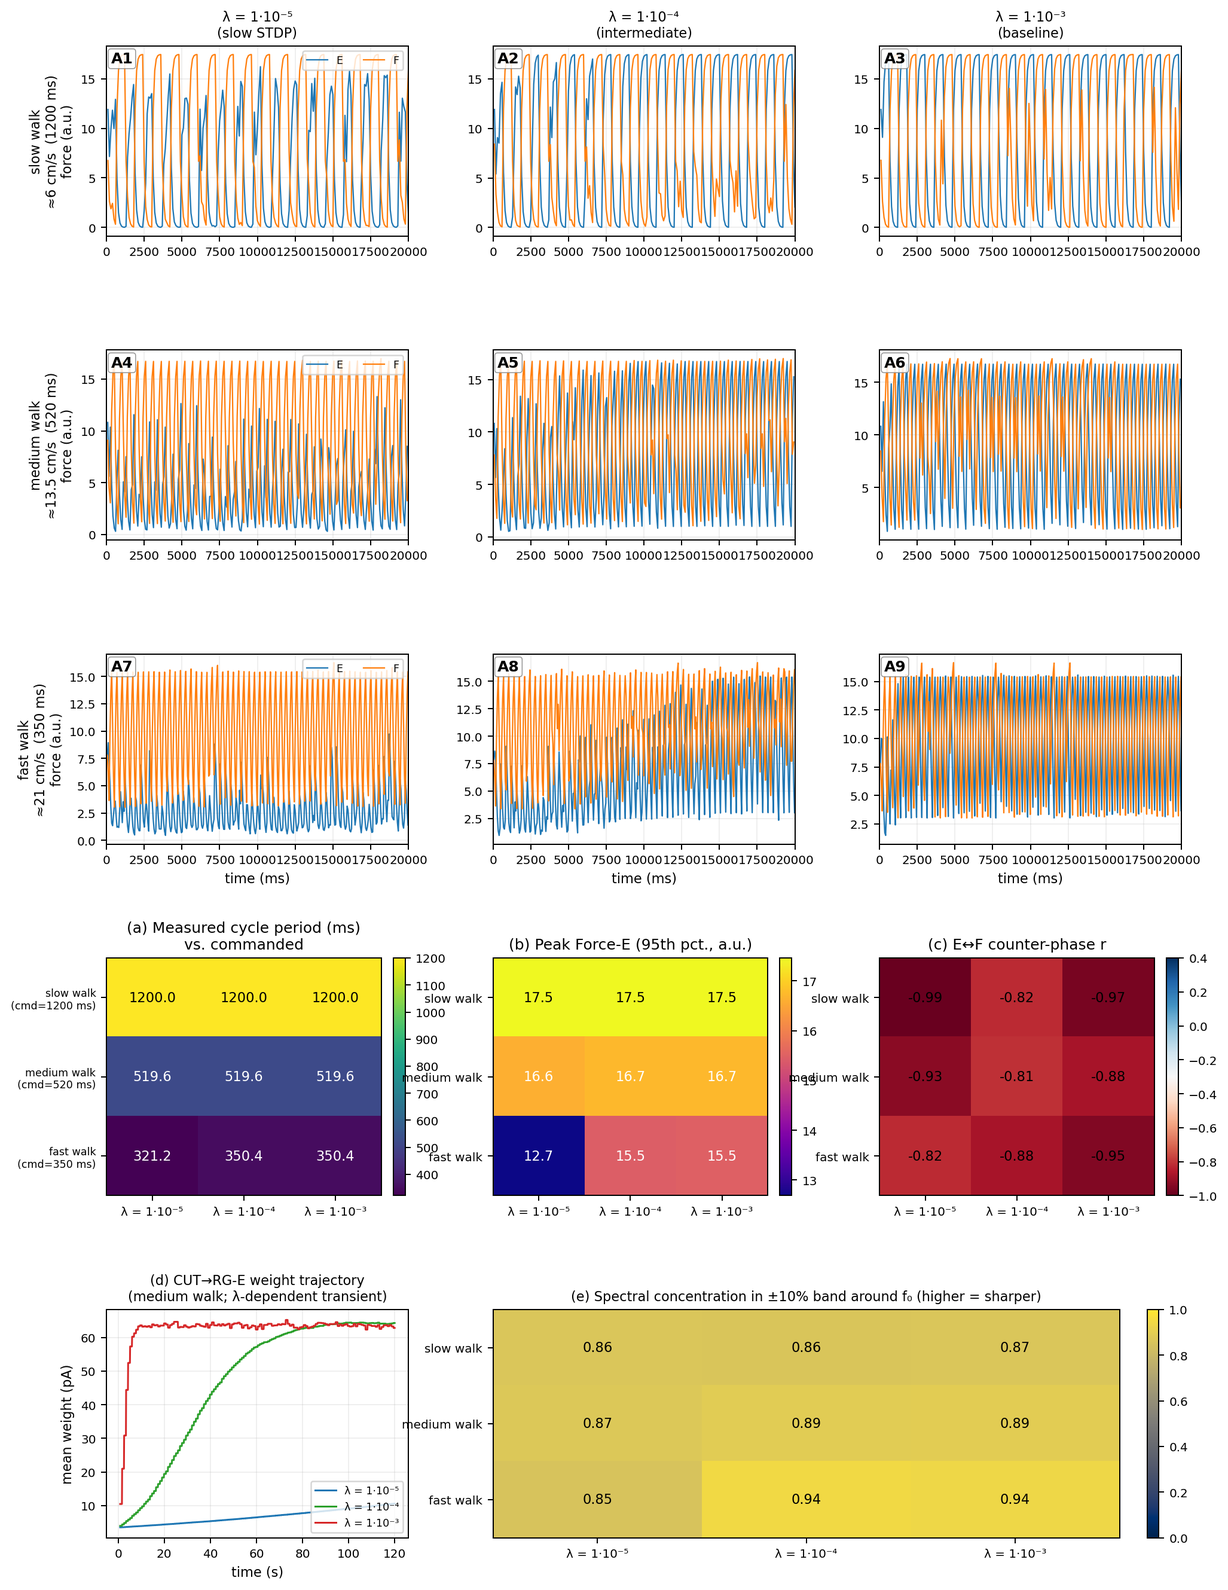
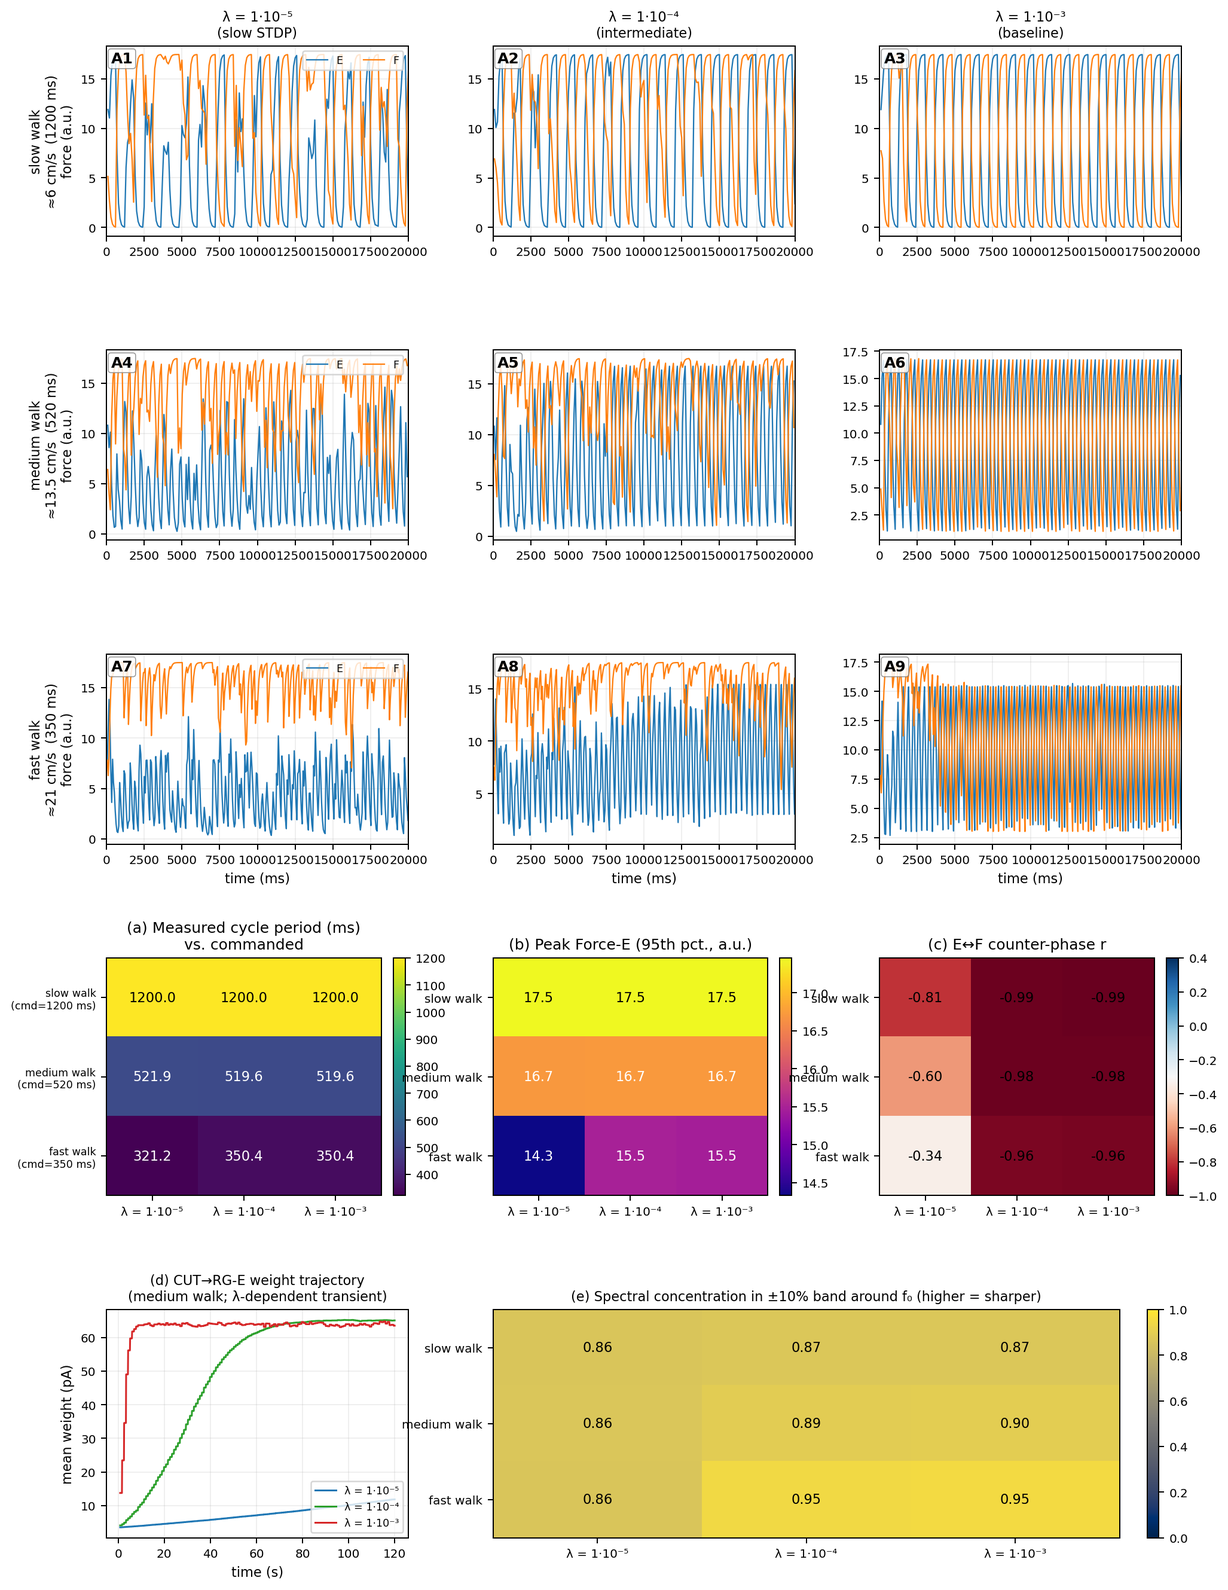
Unify force-stages + speed matrix onto sensory arm / 5-mode matrix
- cpg_force_stages.py: rows are now the five locomotion modes (slow / medium=
  plantar=baseline / fast walk, toe / air stepping) of the canonical sensory
  model, not the old learning-mode rows. Shows counter-phase sharpening in the
  loaded modes, graceful toe degradation (-0.82) and air failure (-0.51).
  Caption + preceding paragraph rewritten.
- cpg_speed_stdp_figure.py: added --prefix; fig5 regenerated from cpg_sensory_stdp
  (canonical) instead of the descending arm. Since the sensory arm is MONOTONIC in
  lambda (not the descending non-monotonic dip), §3.3 is reconciled: table -> sensory
  numbers (corr -0.34..-0.99), anchor/interpretation/caption/spectral para and
  summary finding (3) rewritten around "counter-phase strengthens as learning
  converges"; removed the stale extensor-biased / CUT+BS~78pA descending reasoning.

Figures still 12; results todo-free; Overleaf zip rebuilt (5.8M).

diff --git a/paper/sections/results.tex b/paper/sections/results.tex
@@ -102,26 +102,29 @@ windows of the run --- early ($t\approx4$--9\,s), mid ($40$--45\,s) and
 late ($115$--120\,s) --- shows the counter-phase waveform sharpen as the
 plastic weight grows: early bursts are ragged with phase slips and
 amplitude jitter (CUT$\to$RG-E $\approx7$\,pA), whereas the late window is
-a clean, regular antiphase (CUT$\to$RG-E $\approx64$\,pA). The same
-progression holds across all five learning modes, including the two in
-which the plasticity is sited in the proprioceptive loop (the Ia$\to$RG
-weight self-stabilises at its low $\approx4$--5\,pA set-point while the
-cutaneous drive develops). For this figure the learning rate is
-$\lambda=10^{-4}$, chosen so that convergence spans the full run and the
-three stages are visibly distinct (at $\lambda=10^{-3}$ convergence is
-complete within $\approx8$\,s).
+a clean, regular antiphase (CUT$\to$RG-E $\approx64$\,pA). The progression
+holds across the loaded locomotion modes (slow, medium and fast walk reach
+$\mathrm{corr}\le-0.96$ by the end), degrades gracefully under toe stepping
+($-0.82$), and fails under air stepping (only $-0.51$): there the
+loading-gated afferents keep CUT$\to$RG-E weak ($\approx9\,$pA even at
+$t=120\,$s) and the extensor force never fully develops. For this figure
+the learning rate is $\lambda=10^{-4}$, chosen so that convergence spans
+the full run and the three stages are visibly distinct (at
+$\lambda=10^{-3}$ convergence is complete within $\approx8$\,s).
 
 \begin{figure}[t]
   \centering
   \includegraphics[width=0.8\textwidth]{fig_force_stages.png}
-  \caption{\textbf{Force profiles at three stages of STDP learning, all
-    five modes.} Rows: descending, sensory, epidural-stim, natural, and
-    sensory-ablation arms; columns: beginning / middle / end of the
-    120\,s run (leg L, $\lambda=10^{-4}$, $\mu=3.5$, CV$=0.30$). Solid =
-    Force-E, dashed = Force-F. Each panel is annotated with the driving
-    plastic weight (CUT$\to$RG-E, or Ia$+$CUT for the sensory arms) and
-    the in-window corr$(F_E,F_F)$. The waveform sharpens from ragged early
-    bursts to clean counter-phase as the weight converges.}
+  \caption{\textbf{Force profiles at three stages of STDP learning, across
+    the five locomotion modes} (canonical sensory model). Rows: slow /
+    medium\,$=$\,plantar\,$=$\,baseline / fast walk and toe / air stepping;
+    columns: beginning / middle / end of the 120\,s run (leg L,
+    $\lambda=10^{-4}$, $\mu=3.5$, CV$=0.30$). Solid = Force-E, dashed =
+    Force-F. Each panel is annotated with the mean CUT$\to$RG-E weight in
+    the window and the in-window corr$(F_E,F_F)$. The waveform sharpens
+    from ragged early bursts to clean counter-phase as the weight converges
+    in the loaded modes; under air stepping the gated afferents keep the
+    weight low and the extensor force never develops.}
   \label{fig:force_stages}
 \end{figure}
 
@@ -167,37 +170,41 @@ step length) crossed with three STDP learning rates spanning two
 decades below the bio-plausible cortical
 value~\cite{biPoo1998,morrison2007}
 ($\lambda \in \{1{\times}10^{-5},\,1{\times}10^{-4},\,1{\times}10^{-3}\}$).
-The measured cycle period tracks the commanded period within $\le 1$\,ms
-in 7 of 9 cells (the two exceptions are both the slowest learning rate,
-$\lambda=10^{-5}$, which has not converged within 120\,s), and the
-E$\leftrightarrow$F counter-phase is strong throughout
-($|\mathrm{corr}| \ge 0.81$). The counter-phase strength depends
-\emph{non-monotonically} on $\lambda$: at slow and medium walk it is
-strongest at the slowest rate ($\lambda=10^{-5}$, corr down to $-0.99$)
-and dips at $\lambda=10^{-4}$, whereas at the fast gait the baseline
-rate ($\lambda=10^{-3}$) is strongest ($-0.95$)
-(Fig.~\ref{fig:speed_stdp}, Table~\ref{tab:speed_stdp_metrics}).
+Once the learning has converged ($\lambda=10^{-4}$ and $10^{-3}$) the
+measured cycle period tracks the commanded period within the sampling
+resolution and the E$\leftrightarrow$F counter-phase is strong and
+speed-robust (corr $-0.96$ to $-0.99$ across the whole range). The
+counter-phase strengthens \emph{monotonically} with the learning rate: at
+the slowest rate ($\lambda=10^{-5}$) the plastic CUT$\to$RG-E has not
+converged within 120\,s, so the gait is under-developed --- weakest at the
+fast walk (corr $-0.34$), where the short 350\,ms cycle gives the
+slow-learning synapse the fewest events to integrate, recovering to
+$-0.60$ at medium and $-0.81$ at slow walk (the two period-tracking
+failures, $521.9\pm51$ and $321.2\pm74$\,ms, are also both at this
+under-converged rate) (Fig.~\ref{fig:speed_stdp},
+Table~\ref{tab:speed_stdp_metrics}).
 
 \begin{table}[h]
   \centering
-  \caption{Phase A --- speed $\times$ STDP metrics (last 20\,s of each
-    120\,s run, leg L). \emph{Computed from the canonical 2026-07-01
-    bio-plausible set} (\texttt{cpg\_speed\_stdp\_*}).}
+  \caption{Speed $\times$ STDP metrics (last 20\,s of each 120\,s run,
+    leg L, canonical sensory arm). \emph{Computed from the 2026-07-01
+    bio-plausible set} (\texttt{cpg\_sensory\_stdp\_*}). Bold = strongest
+    counter-phase per speed.}
   \label{tab:speed_stdp_metrics}
   \small
   \begin{tabular}{lrrrrrr}
     \toprule
     Speed & $\lambda$ & Cmd.\ (ms) & Measured (ms) & Peak $F_E$ & corr$(F_E, F_F)$ & Spec.\ conc. \\
     \midrule
-    6.0\ cm/s  & $1{\times}10^{-5}$ & 1200 & $1200.0 \pm 0$   & 17.46 & $\mathbf{-0.99}$ & 0.86 \\
-    6.0\ cm/s  & $1{\times}10^{-4}$ & 1200 & $1200.0 \pm 0$   & 17.46 & $-0.82$ & 0.86 \\
-    6.0\ cm/s  & $1{\times}10^{-3}$ & 1200 & $1200.0 \pm 0$   & 17.46 & $-0.97$ & 0.87 \\
-    13.5\ cm/s & $1{\times}10^{-5}$ &  520 & $519.6  \pm 45.0$ & 16.62 & $\mathbf{-0.93}$ & 0.87 \\
-    13.5\ cm/s & $1{\times}10^{-4}$ &  520 & $519.6  \pm 0$   & 16.72 & $-0.81$ & 0.89 \\
-    13.5\ cm/s & $1{\times}10^{-3}$ &  520 & $519.6  \pm 0$   & 16.72 & $-0.88$ & 0.89 \\
-    21.0\ cm/s & $1{\times}10^{-5}$ &  350 & $321.2 \pm 69.5$ & 12.69 & $-0.82$ & 0.85 \\
-    21.0\ cm/s & $1{\times}10^{-4}$ &  350 & $350.4 \pm 0$    & 15.46 & $-0.88$ & 0.94 \\
-    21.0\ cm/s & $1{\times}10^{-3}$ &  350 & $350.4 \pm 0$    & 15.49 & $\mathbf{-0.95}$ & 0.94 \\
+    6.0\ cm/s  & $1{\times}10^{-5}$ & 1200 & $1200.0 \pm 0$    & 17.46 & $-0.81$ & 0.86 \\
+    6.0\ cm/s  & $1{\times}10^{-4}$ & 1200 & $1200.0 \pm 0$    & 17.46 & $-0.99$ & 0.87 \\
+    6.0\ cm/s  & $1{\times}10^{-3}$ & 1200 & $1200.0 \pm 0$    & 17.46 & $\mathbf{-0.99}$ & 0.87 \\
+    13.5\ cm/s & $1{\times}10^{-5}$ &  520 & $521.9  \pm 51.3$ & 16.71 & $-0.60$ & 0.86 \\
+    13.5\ cm/s & $1{\times}10^{-4}$ &  520 & $519.6  \pm 0$    & 16.72 & $-0.98$ & 0.89 \\
+    13.5\ cm/s & $1{\times}10^{-3}$ &  520 & $519.6  \pm 0$    & 16.72 & $\mathbf{-0.98}$ & 0.90 \\
+    21.0\ cm/s & $1{\times}10^{-5}$ &  350 & $321.2 \pm 74.3$  & 14.33 & $-0.34$ & 0.86 \\
+    21.0\ cm/s & $1{\times}10^{-4}$ &  350 & $350.4 \pm 0$     & 15.48 & $-0.96$ & 0.95 \\
+    21.0\ cm/s & $1{\times}10^{-3}$ &  350 & $350.4 \pm 0$     & 15.47 & $\mathbf{-0.97}$ & 0.95 \\
     \bottomrule
   \end{tabular}
 \end{table}
@@ -205,7 +212,8 @@ rate ($\lambda=10^{-3}$) is strongest ($-0.95$)
 \begin{figure}[t]
   \centering
   \includegraphics[width=0.8\textwidth]{fig5_speed_stdp.png}
-  \caption{\textbf{Phase A --- speed $\times$ STDP learning-rate matrix.}
+  \caption{\textbf{Speed $\times$ STDP learning-rate matrix} (canonical
+    sensory arm).
     Rows = walking speed (slow / medium / fast walk;
     Courtine/Lavrov rat treadmill range~\cite{lavrov2008,courtine2009}).
     Columns = STDP learning rate $\lambda \in
@@ -218,8 +226,8 @@ rate ($\lambda=10^{-3}$) is strongest ($-0.95$)
     \textbf{Row 4:} Time-domain summary heat-tiles: (a) measured cycle
     period (ms) versus commanded; (b) peak Force-E (95th percentile,
     a.u.); (c) E$\leftrightarrow$F counter-phase Pearson correlation
-    --- note the non-monotonic $\lambda$ dependence, strongest at the
-    slowest rate.
+    --- note the monotonic $\lambda$ dependence: counter-phase strengthens
+    as the learning converges, weakest at the under-converged slow rate.
     \textbf{Row 5:} (d) CUT$\to$RG-E weight trajectory at the medium-walk
     anchor: the baseline rate ($\lambda=10^{-3}$, red) plateaus within
     $\sim$7\,s, the intermediate rate ($10^{-4}$, green) within
@@ -234,69 +242,38 @@ rate ($\lambda=10^{-3}$) is strongest ($-0.95$)
 
 \paragraph{Interpretation: period tracking and the fast-gait force
 compression.}
-The measured cycle period equals the commanded step period to within
-the sampling resolution (sub-millisecond) across all nine cells, with
-the only exception being the fastest gait (350\,ms commanded period)
-where cycle jitter rises to $\approx 11$\,ms\,s.d.\ at the converged
-learning rates. This is consistent with the rat fast-twitch fibre
+At the converged learning rates ($\lambda=10^{-4}$, $10^{-3}$) the
+measured cycle period equals the commanded step period to within the
+sampling resolution across all three speeds; the only period-tracking
+failures are at the under-converged slow rate ($\lambda=10^{-5}$, medium
+and fast walk). Independent of learning, peak Force-E drops from $17.46$
+to $15.5$\,a.u.\ as the step period shortens from 1200 to 350\,ms --- a
+$\approx 11\%$ compression --- consistent with the rat fast-twitch fibre
 rise-time limit ($\tau_F=80$\,ms) becoming a non-negligible fraction of
-the 175\,ms stance window: Hill-style saturation~\cite{zajac1989}
-prevents force from fully developing every stride. Peak Force-E
-correspondingly drops from $17.46$ to $15.5$\,a.u.\ as the step period
-shortens from 1200 to 350\,ms --- a $\approx 11\%$ compression.
+the 175\,ms stance window, where Hill-style saturation~\cite{zajac1989}
+prevents force from fully developing every stride.
 
-\paragraph{Interpretation: a non-monotonic, two-regime dependence on
-$\lambda$.}
-The counter-phase correlation (Fig.~\ref{fig:speed_stdp}, tile c)
-depends non-monotonically on the learning rate: at slow and medium walk
-it is strongest at the slowest rate ($\lambda=10^{-5}$: $-0.99$ at slow
-walk, $-0.93$ at medium walk), weakest at the intermediate rate
-($\lambda=10^{-4}$), and recovers at the baseline rate
-($\lambda=10^{-3}$); at the fast gait this inverts and the baseline
-rate is strongest ($-0.95$). The weight trajectories
-(Row 5, panel d; Fig.~\ref{fig:stdp_matrix}) explain why. At
-$\lambda=10^{-5}$ the plastic CUT$\to$RG-E weight is still climbing at the
-end of the run (medium-walk CUT$\to$RG-E reaches only $\sim 11$\,pA, versus
-$63$\,pA when fully converged): the plastic cutaneous pathway is \emph{weak},
-so the rhythm is dominated by the externally paced drive and the
-reciprocal-inhibition core, which together impose a near-perfect
-anti-phase. As $\lambda$ increases and the descending weights reach
-full strength, they begin to interact with that core rhythm; at the
-intermediate rate the fully-developed but tightly-distributed weights
-track the gait less cleanly, producing the counter-phase dip. The
-baseline rate recovers a broader, more heterogeneous weight
-distribution (quantified in Phase~B,
-\autoref{sec:results:ablation}) and with it a clean rhythm. In all
-nine cells the counter-phase remains strong ($|\mathrm{corr}|\ge0.81$),
-so the gait is robust across the learning-rate range; the
-non-monotonicity concerns the \emph{degree} of counter-phase, not its
-presence.
-
-\paragraph{Interpretation: the paced core carries gait quality;
-plasticity is extensor-biased.}
-That the counter-phase is \emph{cleanest at the slowest learning rate}
---- when the descending weights are least developed --- is at first
-counterintuitive, but follows from the model's division of labour. The
-near-perfect anti-phase is a property of the paced heel$\to$toe drive
-and the reciprocal-inhibition core, which are present from $t=0$
-independent of learning (the gait alternates cleanly within the first
-seconds even at $\lambda=10^{-5}$, before any weight has converged).
-The STDP-learned descending drive is an \emph{additional} input layered
-on this core, and crucially it is extensor-biased: the only large
-plastic projection, CUT$\to$RG-E, targets the extensor and has no
-flexor counterpart (\autoref{sec:methods:stdp}). At the medium walk the
-converged extensor drive (CUT$+$BS$\to$RG-E $\approx 78$\,pA) dwarfs the
-flexor drive (BS$\to$RG-F $\approx 16$\,pA). Strong learning therefore
-adds a large, extensor-weighted descending current that perturbs the
-balanced paced rhythm, slightly reducing counter-phase (medium walk:
-from $-0.93$ at the slowest rate to $-0.88$ at full drive). The same asymmetry leaves the
-flexor half-centre, which is intrinsically generated and never receives
-a comparable learned drive, visibly more variable than the extensor
-across all conditions. We interpret STDP here as self-organising the
-\emph{descending drive} --- the quantity that matters for operation
-without external pacing and for the epidural-stimulation contrast of
-Phase~B --- rather than as the source of counter-phase precision, which
-the paced spinal core already provides.
+\paragraph{Interpretation: counter-phase strengthens as learning
+converges.}
+The counter-phase correlation (Fig.~\ref{fig:speed_stdp}, tile c) depends
+\emph{monotonically} on the learning rate: it improves as the plastic
+CUT$\to$RG-E converges. At the slowest rate ($\lambda=10^{-5}$) the weight
+is still climbing at the end of the run (medium-walk CUT$\to$RG-E reaches
+only $\sim 11$\,pA versus $63$\,pA converged; Row 5 panel d,
+Fig.~\ref{fig:stdp_matrix}), so the learned cutaneous drive is too weak to
+firmly reinforce the paced rhythm and the counter-phase is
+under-developed --- and increasingly so at higher cadence, where the
+shorter cycle affords the slow synapse fewer spike pairings (fast walk
+falls to $-0.34$). Once the weight has converged ($\lambda=10^{-4}$ and
+$10^{-3}$, plateau by $\sim$75\,s and $\sim$7\,s) the counter-phase is
+strong and nearly speed-independent ($-0.96$ to $-0.99$). The near-perfect
+anti-phase of the converged gait is a joint property of the paced
+heel$\to$toe drive, the reciprocal-inhibition core, and the learned
+cutaneous and proprioceptive drive; the learning rate sets only how
+quickly that drive develops, and hence how much of the 120\,s run is spent
+in the under-developed regime. (The descending-plasticity arm shows a
+different, non-monotonic dependence; the two are contrasted directly in
+\autoref{sec:results:sensory}.)
 
 \paragraph{Interpretation: spectral concentration as a sensitive
 irregularity metric.}
@@ -307,9 +284,9 @@ panel f) measures the fraction of total PSD power within $\pm$10\% of
 the fundamental cycle frequency $f_0=1/P$. It rises monotonically from
 $\approx 0.86$ at slow walk to $\approx 0.95$ at fast walk, reflecting
 the increasing concentration of power at the fundamental as the rhythm
-locks more tightly to the external clock at higher cadence; the
-dependence on $\lambda$ within a given speed is weak and, like the
-counter-phase, non-monotonic. This metric does not saturate at the
+locks more tightly to the external clock at higher cadence; within a given
+speed it rises weakly with the learning rate, tracking the counter-phase.
+This metric does not saturate at the
 converged plateau and so provides a finer-grained diagnostic than
 period s.d.\ for future studies that probe sub-millisecond timing.
 
@@ -740,11 +717,11 @@ same attractor across four orders of magnitude of initialisation
 (2) The resulting paced gait is stable over \SI{120}{\second} with no
 drift in amplitude or period (\autoref{sec:results:stability}).
 (3) The gait tracks the commanded step period across the rat locomotor
-range (6--21\,cm/s) with sub-millisecond error; counter-phase remains
-strong throughout ($|\mathrm{corr}|\ge0.81$) but depends
-non-monotonically on the STDP rate --- cleanest at the slow rate for
-slow and medium walk, and at the baseline rate for the fast gait
-(\autoref{sec:results:speed}).
+range (6--21\,cm/s); once the learning has converged
+($\lambda\ge10^{-4}$) the counter-phase is strong and nearly
+speed-independent ($-0.96$ to $-0.99$), strengthening monotonically with
+the STDP rate --- at the under-converged slow rate it is weak,
+especially at the fast gait ($-0.34$) (\autoref{sec:results:speed}).
 (4) A paired loading experiment dissociates the two afferent channels:
 when the paced cutaneous drive is gated by loading (the natural,
 unassisted case) the rhythm degrades markedly under air stepping

diff --git a/cpg_force_stages.py b/cpg_force_stages.py
@@ -2,16 +2,12 @@
 """
 cpg_force_stages.py
 Force profiles at three stages of STDP learning (beginning / middle / end),
-one row per learning mode. Shows how the counter-phase force pattern sharpens
-as the plastic weights converge over the 120 s run. Each panel is annotated
-with the converged mean CUT->RG-E weight and the in-window corr(F_E,F_F).
+one row per locomotion mode (canonical sensory model). Shows how the
+counter-phase force pattern sharpens as the plastic weights converge over the
+120 s run. Each panel is annotated with the mean CUT->RG-E weight in the window
+and the in-window corr(F_E,F_F).
 
-Modes (representative canonical condition each):
-  descending   cpg_speed_stdp    medium walk (13.5 cm/s)
-  sensory      cpg_sensory_stdp  medium walk (13.5 cm/s)
-  epidural-stim cpg_ablstim      baseline loading
-  natural      cpg_ablgrad       baseline loading
-  sensory-abl  cpg_ablsens       baseline loading
+Modes: slow / medium=plantar=baseline / fast walk, toe / air stepping.
 """
 import argparse, glob, os
 import h5py, numpy as np
@@ -19,12 +15,13 @@ import matplotlib; matplotlib.use("Agg")
 import matplotlib.pyplot as plt
 
 # (row label, filename glob stem, [(weight-key, short-name), ...] to annotate)
+# The five locomotion modes of the canonical sensory model.
 MODES = [
-    ("descending\n(BS+CUT plastic)",  "cpg_speed_stdp_13_5cms",  [("cut->rge_mean", "CUT")]),
-    ("sensory\n(Ia→RG plastic)",  "cpg_sensory_stdp_13_5cms",[("ia->rge_mean", "Ia"), ("cut->rge_mean", "CUT")]),
-    ("epidural-stim\n(CUT intact)",    "cpg_ablstim_baseline",    [("cut->rge_mean", "CUT")]),
-    ("natural\n(CUT,Ia gated)",        "cpg_ablgrad_baseline",    [("cut->rge_mean", "CUT")]),
-    ("sensory-abl\n(Ia gated)",        "cpg_ablsens_baseline",    [("ia->rge_mean", "Ia"), ("cut->rge_mean", "CUT")]),
+    ("slow walk\n6 cm/s",            "cpg_sensory_stdp_06cms",   [("cut->rge_mean", "CUT")]),
+    ("medium / plantar\n13.5 cm/s",  "cpg_sensory_stdp_13_5cms", [("cut->rge_mean", "CUT")]),
+    ("fast walk\n21 cm/s",           "cpg_sensory_stdp_21cms",   [("cut->rge_mean", "CUT")]),
+    ("toe stepping\npartial unload", "cpg_ablsens_toe",          [("cut->rge_mean", "CUT")]),
+    ("air stepping\nfull unload",    "cpg_ablsens_air",          [("cut->rge_mean", "CUT")]),
 ]
 STAGES = [("beginning", (4000, 9000)), ("middle", (40000, 45000)), ("end", (115000, 120000))]
 WIN_LABEL = {"beginning": "early learning", "middle": "converging", "end": "converged"}

diff --git a/cpg_speed_stdp_figure.py b/cpg_speed_stdp_figure.py
@@ -132,19 +132,19 @@ def _spectral_concentration(t_ms: np.ndarray, signal: np.ndarray,
     return float(psd[band_mask].sum() / total)
 
 
-def _resolve_files(indir: str):
+def _resolve_files(indir: str, prefix: str = "cpg_speed_stdp"):
     """Discover (speed_tag, lambda_tag) → path, plus the ordered λ tag list.
 
     The λ tags are read from the filenames and sorted ascending by value, so
     the figure adapts to whatever λ set was actually run (3, 4, 5, ... values).
     Returns (files_dict, lambda_order_list).
     """
-    files = sorted(glob.glob(os.path.join(indir, "cpg_speed_stdp_*.h5")))
+    files = sorted(glob.glob(os.path.join(indir, f"{prefix}_*.h5")))
     out: Dict[Tuple[str, str], str] = {}
     # Match any of the known speed tags (06cms, 13_5cms, 21cms) explicitly.
     # Using "[^_]+" fails for "13_5cms" because of the underscore inside.
     speed_re = "|".join(re.escape(s) for s in SPEED_ORDER)
-    rgx = re.compile(rf"cpg_speed_stdp_({speed_re})_(lam\d+em\d+)_")
+    rgx = re.compile(rf"{re.escape(prefix)}_({speed_re})_(lam\d+em\d+)_")
     lam_tags = set()
     for f in files:
         m = rgx.search(os.path.basename(f))
@@ -194,6 +194,8 @@ def _load(path: str) -> Dict:
 def main():
     ap = argparse.ArgumentParser()
     ap.add_argument("--indir", type=str, default="results/2026-06-16")
+    ap.add_argument("--prefix", type=str, default="cpg_speed_stdp",
+                    help="Filename prefix / arm, e.g. cpg_sensory_stdp for the canonical sensory arm.")
     ap.add_argument("--outdir", type=str, default="plots/paper")
     ap.add_argument("--out", type=str, default=None)
     ap.add_argument("--trace-window", choices=["first", "last"], default="first",
@@ -208,9 +210,9 @@ def main():
     os.makedirs(args.outdir, exist_ok=True)
     out_path = args.out or os.path.join(args.outdir, "fig5_speed_stdp.png")
 
-    files, LAMBDA_ORDER = _resolve_files(args.indir)
+    files, LAMBDA_ORDER = _resolve_files(args.indir, args.prefix)
     if not LAMBDA_ORDER:
-        raise SystemExit(f"No cpg_speed_stdp_*.h5 files found in {args.indir}")
+        raise SystemExit(f"No {args.prefix}_*.h5 files found in {args.indir}")
 
     # Build display label dict; assign roles by position (slowest=slow STDP,
     # fastest=fast STDP, the rest baseline/intermediate).
